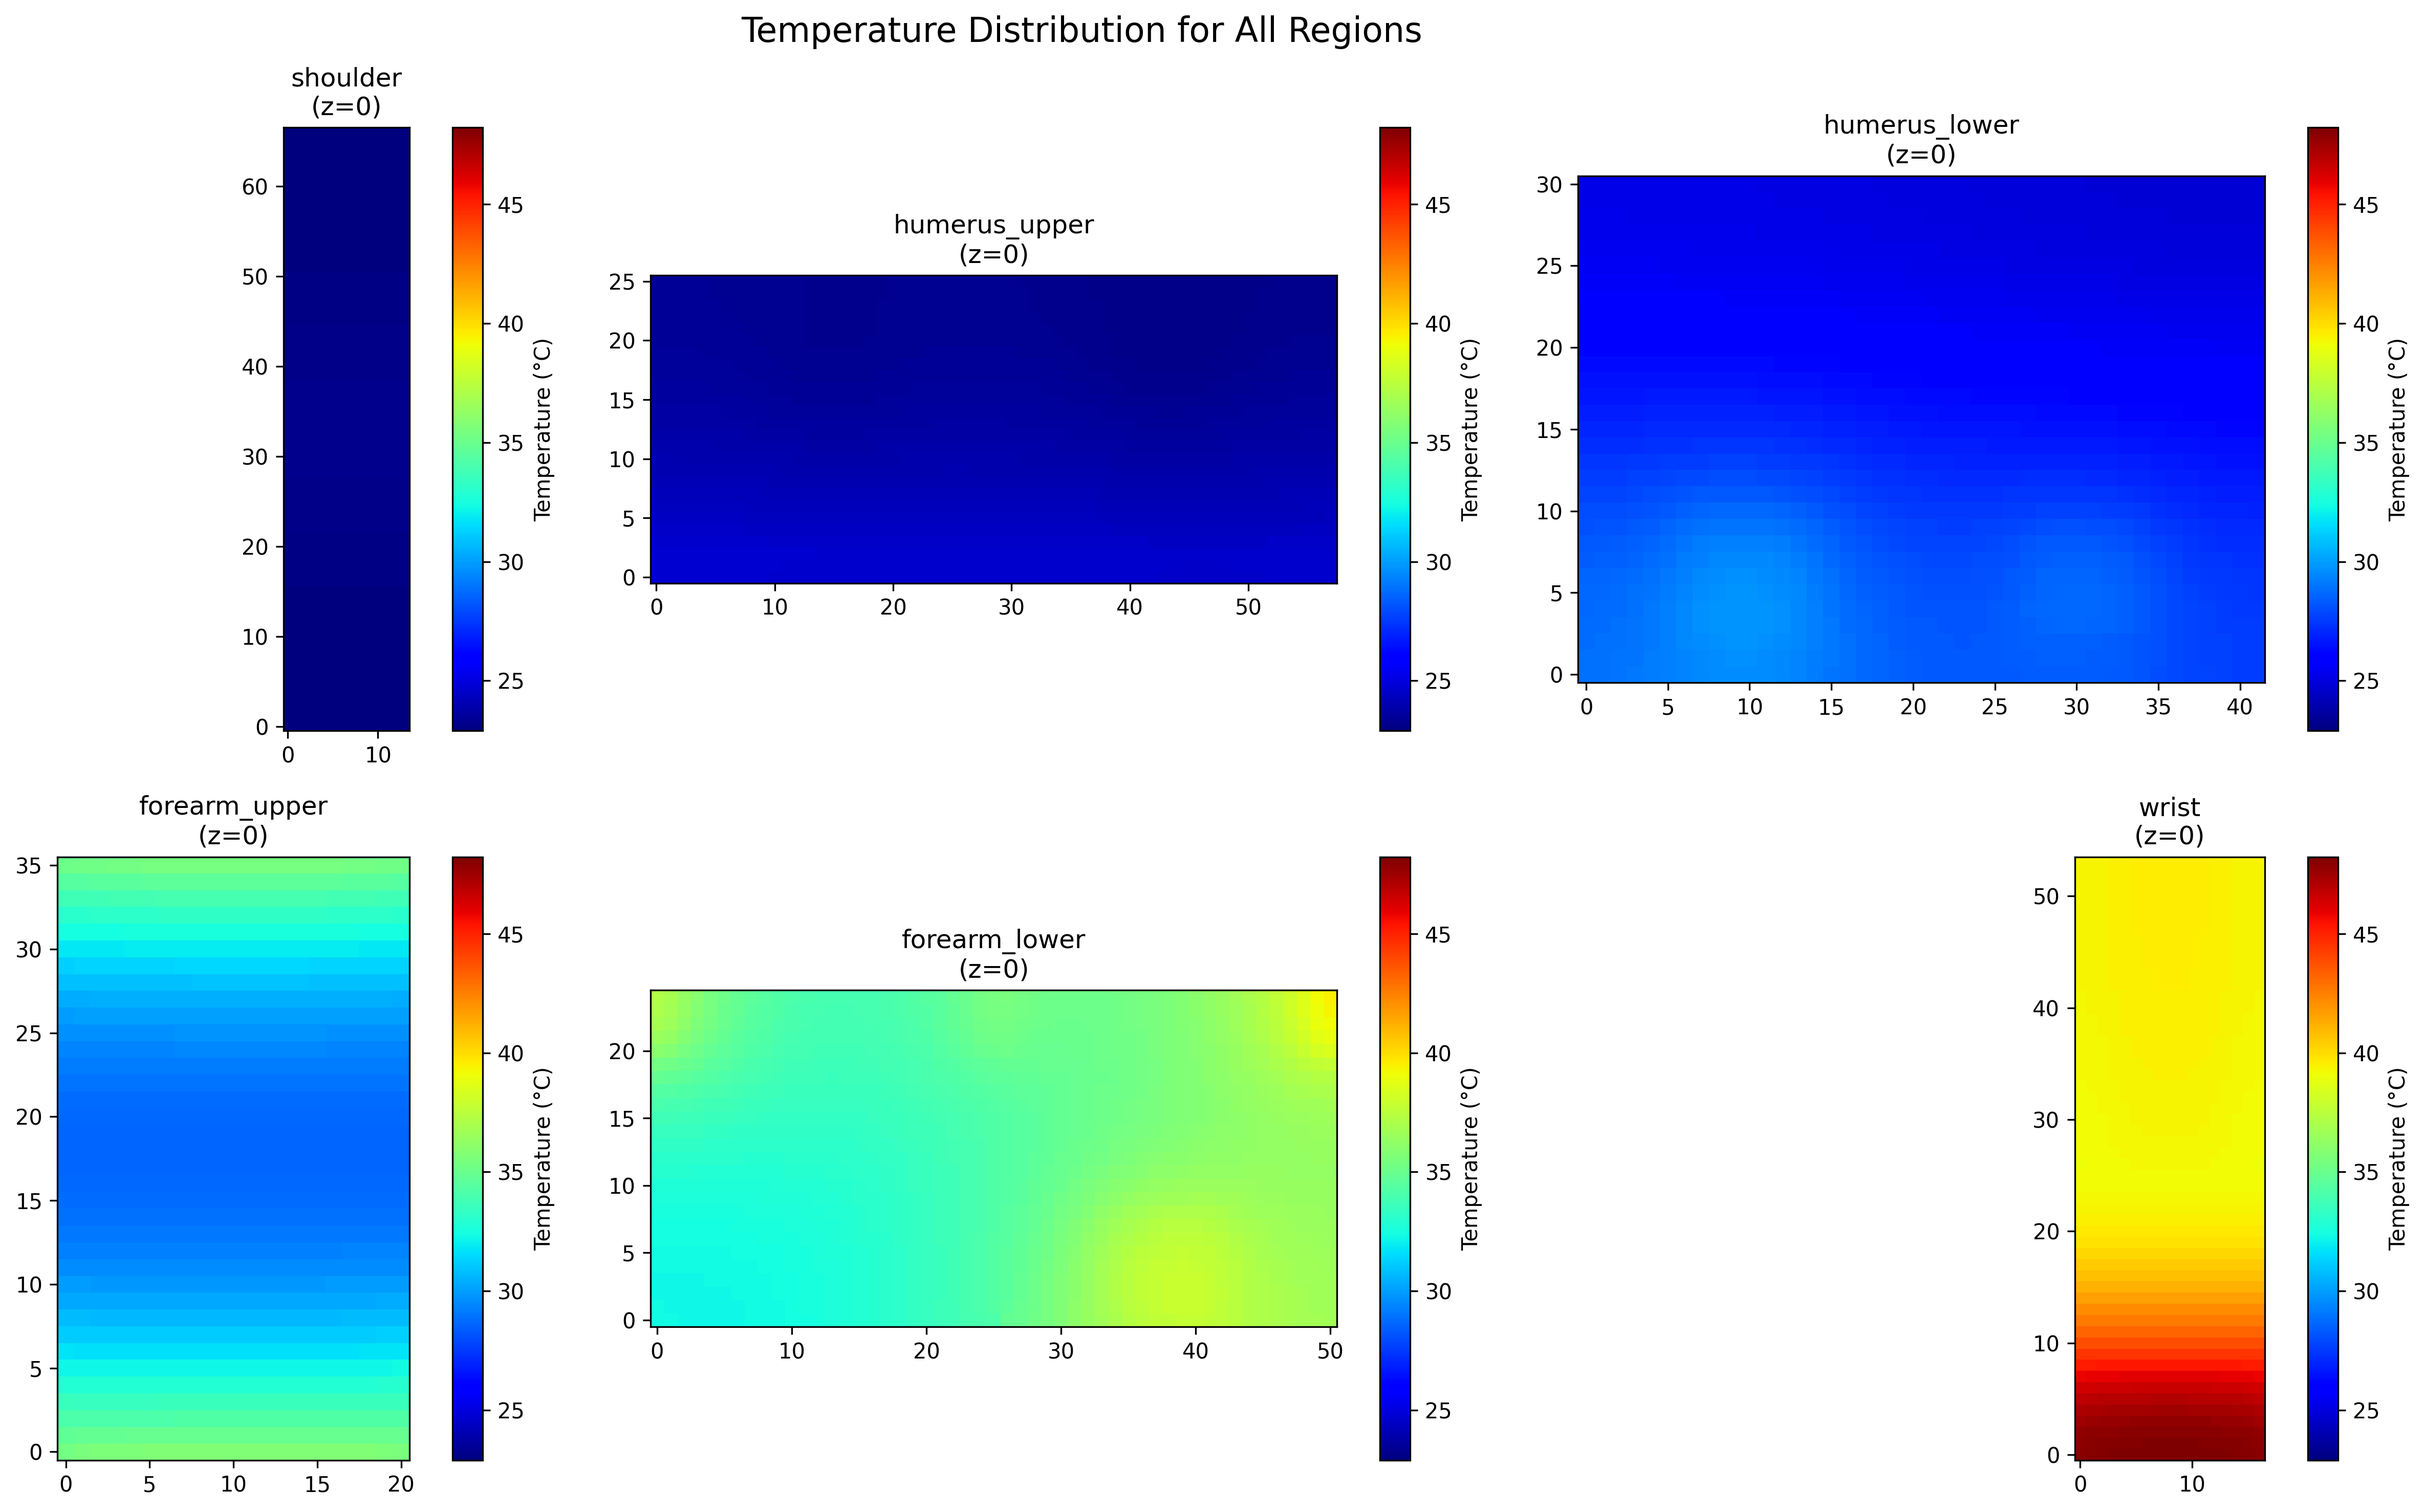
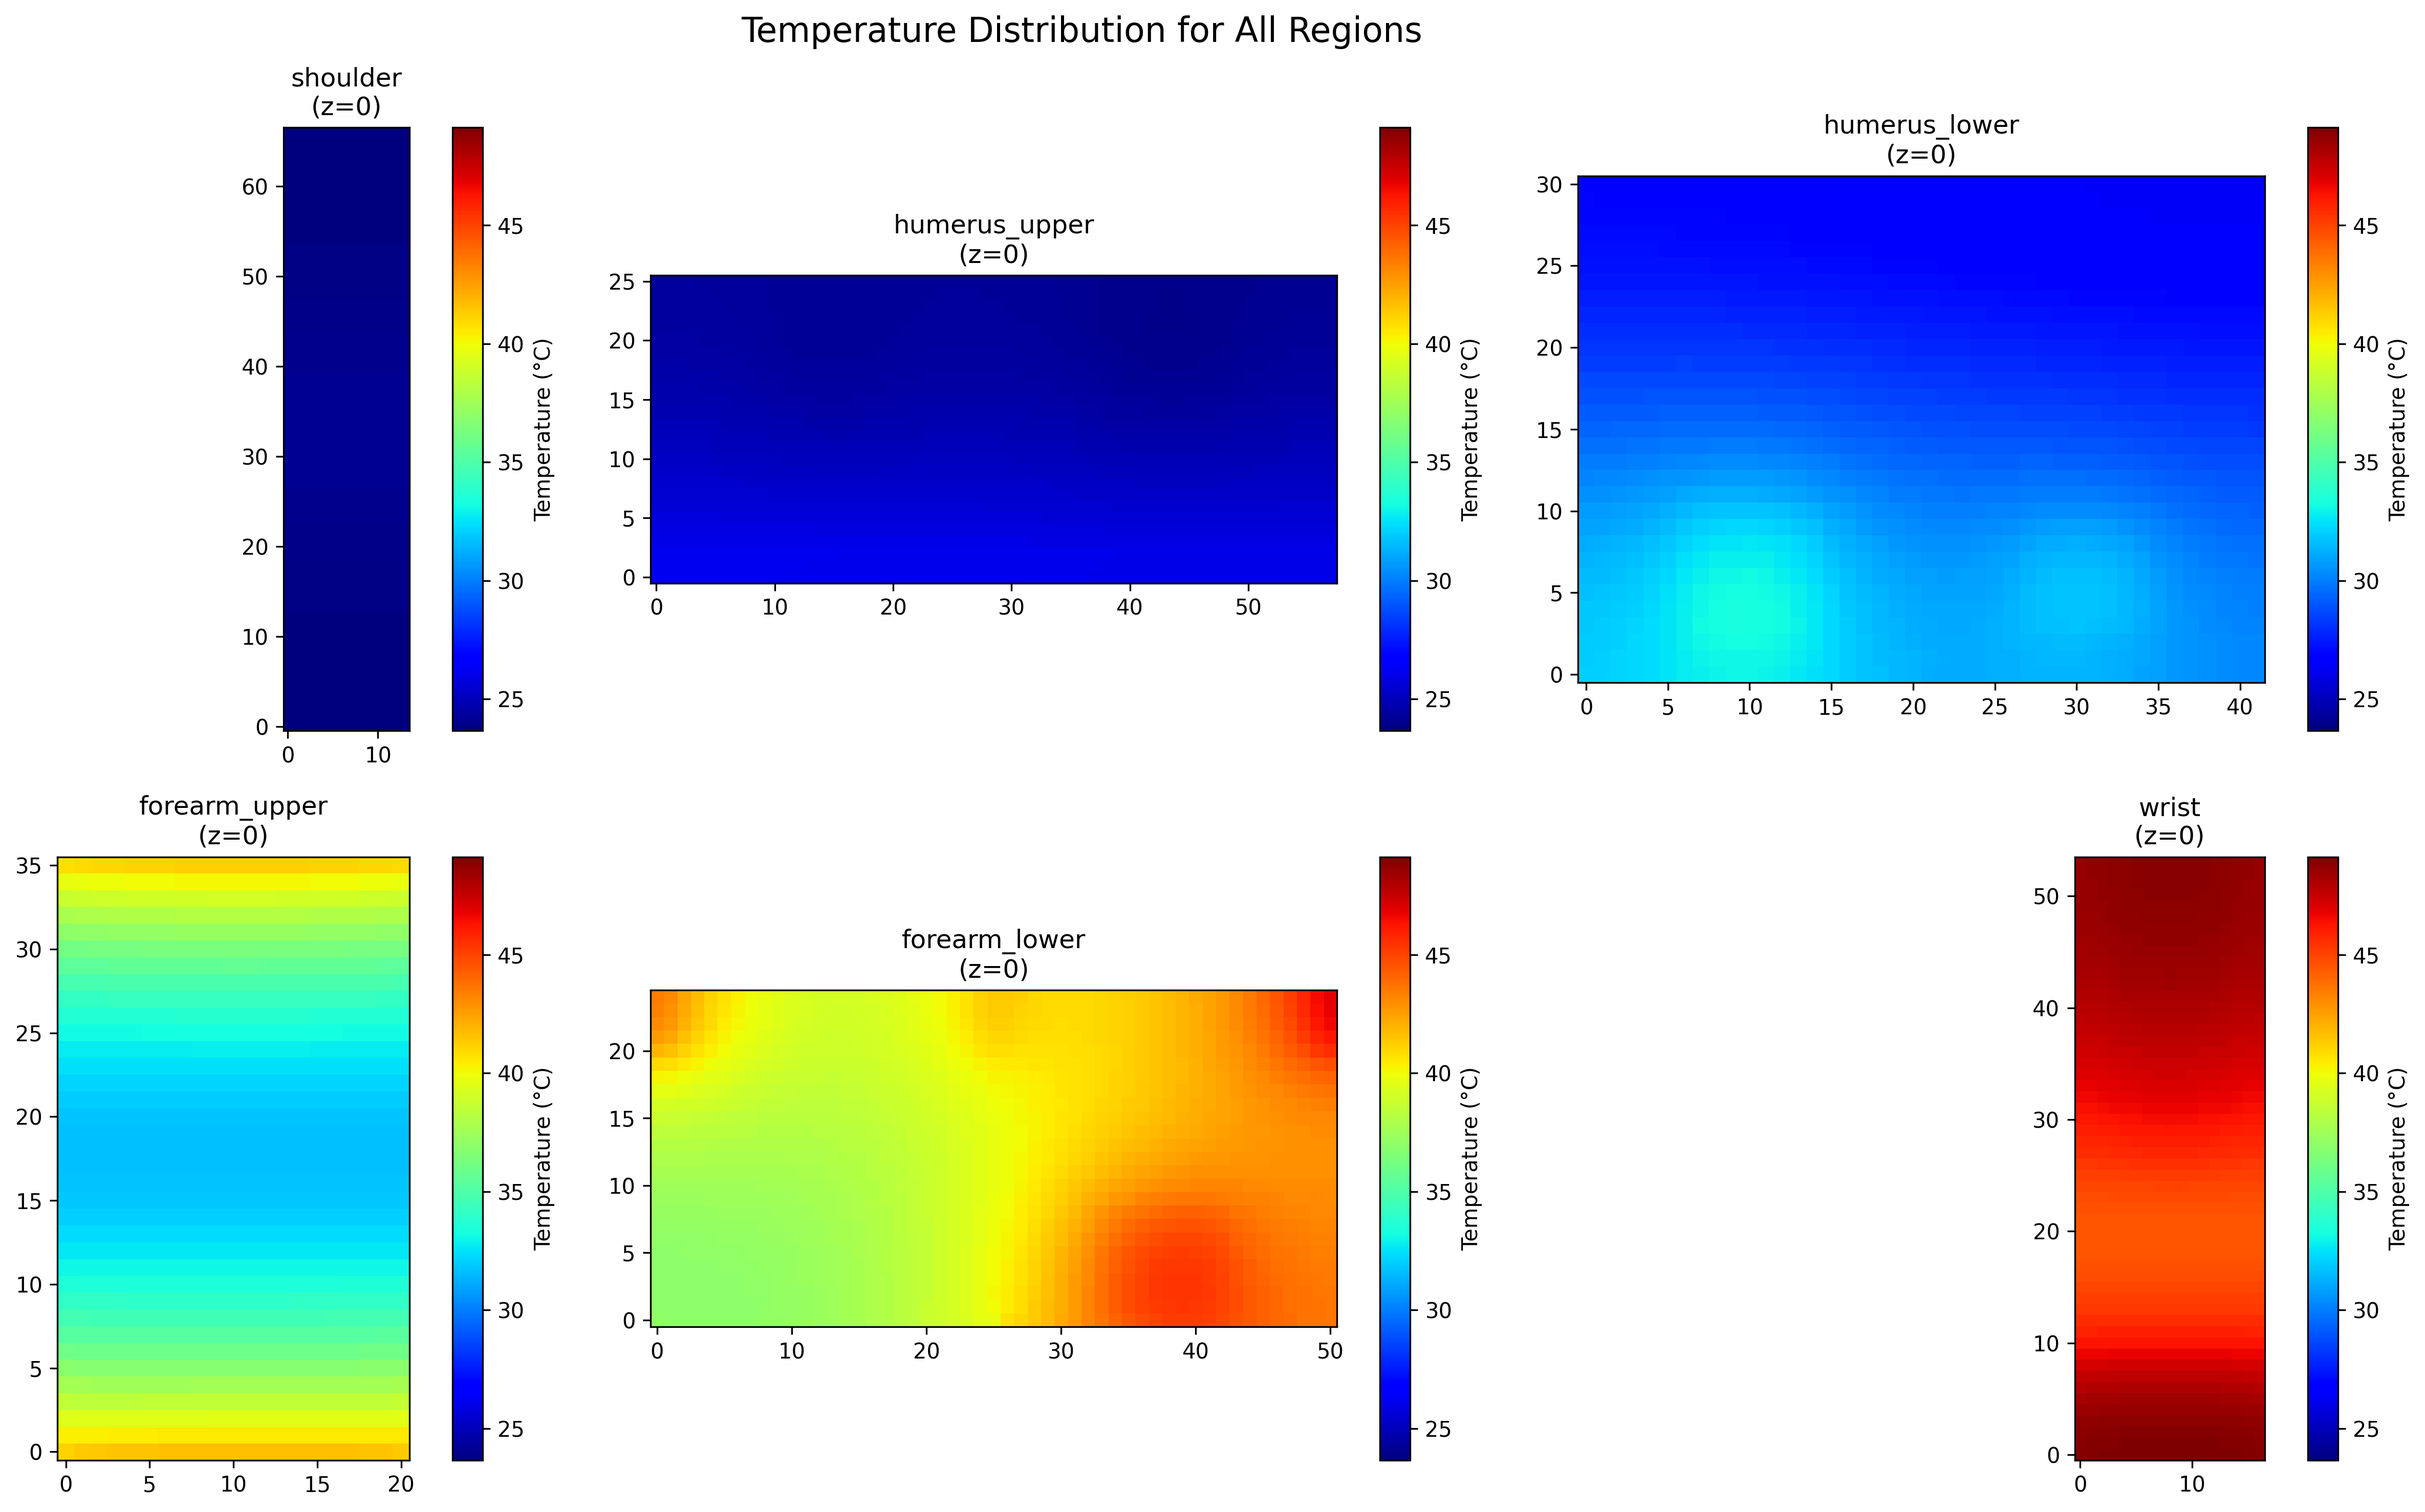
update parameters (htc and resistance) for different cases sim

diff --git a/arm_thermal_model_v3_SimpleHand/thermal_utils.py b/arm_thermal_model_v3_SimpleHand/thermal_utils.py
@@ -5,7 +5,8 @@ Utility functions for thermal model processing.
 import json
 import re
 import os
-from typing import Dict, Any
+from typing import Dict, Any, List
+import numpy as np
 
 def read_geo_file(file_path: str) -> Dict[str, Any]:
     """
@@ -594,6 +595,96 @@ def print_model_summary(geo_data, mesh_params, region_elements, element_mappings
     print(f"\nTotal Elements: {total_elements}")
     print(f"Total Mappings: {len(element_mappings)}")
     print("===============================\n")
+
+class ThermalInterface:
+    """
+    Class to handle thermal coupling between 2D mesh and 1D thermal resistance models.
+    This provides a standardized interface for connecting different thermal models.
+    """
+    def __init__(self, interface_id: str, mesh_region: str, resistance_model: str):
+        self.interface_id = interface_id
+        self.mesh_region = mesh_region
+        self.resistance_model = resistance_model
+        self.coupling_elements = []
+        self.thermal_resistance = {}
+        self.heat_flux = 0.0
+        
+    def add_coupling_element(self, element_idx: int, area: float, position: dict):
+        """Add a mesh element that couples to the thermal resistance model."""
+        self.coupling_elements.append({
+            'element_idx': element_idx,
+            'area': area,
+            'position': position
+        })
+        
+    def set_thermal_resistance(self, resistance_network: dict):
+        """Set the thermal resistance network for this interface."""
+        self.thermal_resistance = resistance_network
+        
+    def calculate_heat_flux(self, mesh_temperatures: np.ndarray, resistance_temperatures: dict) -> float:
+        """Calculate the heat flux through the interface."""
+        total_heat_flux = 0.0
+        for element in self.coupling_elements:
+            mesh_temp = mesh_temperatures[element['element_idx']]
+            # Calculate heat flux based on temperature difference and thermal resistance
+            # This is a simplified example - actual implementation would use the full resistance network
+            resistance_temp = resistance_temperatures.get('interface', mesh_temp)
+            delta_T = mesh_temp - resistance_temp
+            R_total = sum(self.thermal_resistance.values())
+            q = delta_T / R_total * element['area']
+            total_heat_flux += q
+        self.heat_flux = total_heat_flux
+        return total_heat_flux
+        
+    def validate_energy_conservation(self, mesh_heat_flux: float, resistance_heat_flux: float, tolerance: float = 1e-6) -> bool:
+        """Validate that energy is conserved at the interface."""
+        return abs(mesh_heat_flux + resistance_heat_flux) < tolerance
+
+def create_thermal_interface(geo_data: dict, mesh_params: dict, region_elements: dict) -> List[ThermalInterface]:
+    """
+    Create thermal interfaces between 2D mesh and 1D thermal resistance models.
+    
+    Args:
+        geo_data: Geometry data from the GEO.json file
+        mesh_params: Mesh parameters for all regions
+        region_elements: Dictionary mapping region IDs to lists of elements
+        
+    Returns:
+        List of ThermalInterface objects
+    """
+    interfaces = []
+    
+    # Process each region for potential interfaces
+    for region in geo_data.get("regions", []):
+        region_id = region["id"]
+        
+        # Look for boundary conditions that indicate thermal interfaces
+        for bc in region.get("boundary_conditions", []):
+            if bc["type"] == "ACTUATOR_CONNECTED":
+                # Create new interface
+                interface = ThermalInterface(
+                    interface_id=f"{region_id}_{bc.get('id', 'interface')}",
+                    mesh_region=region_id,
+                    resistance_model=bc.get("actuator_id", "unknown")
+                )
+                
+                # Add coupling elements
+                elements = region_elements[region_id]
+                for element in elements:
+                    if element.get("is_boundary", False):
+                        interface.add_coupling_element(
+                            element_idx=element["global_idx"],
+                            area=element.get("area", 0.0),
+                            position=element.get("position", {})
+                        )
+                
+                # Set thermal resistance network
+                if "thermal_resistance" in bc:
+                    interface.set_thermal_resistance(bc["thermal_resistance"])
+                
+                interfaces.append(interface)
+    
+    return interfaces
 
 if __name__ == "__main__":
     # Example usage

diff --git a/arm_thermal_model_v3_SimpleHand/arm_solver_utils.py b/arm_thermal_model_v3_SimpleHand/arm_solver_utils.py
@@ -838,19 +838,29 @@ def update_matrix_with_boundary_conditions(A: scipy.sparse.lil_matrix, b: np.nda
                     
             elif bc_type == "GEARBOX_HAND":
                 R1_tmp = 1.0+R_contact  # C/W
+                
+                # original design
                 R2_tmp = 1.9  # C/W
                 
                 # R3_tmp = 2.898 # NC
                 # R3_tmp = 2.898*0.65  # C/W forearm fan
+                
                 # R3_tmp = 2.898*0.7 # C/W, backhand fan
                 # R3_tmp = 2.898 + 1.5 # C/W, glove on
-                R3_tmp = 2.898 + 1.5 - (0.35)*2.898 # C/W, glove on, forearm fan
+                
                 
                 # R4_tmp = 12  # C/W, backhand fan
-                R4_tmp = 7.7 + 1.5  # C/W, glove on
                 
-                Q1 = 9       # W
-                Q2 = 16.11+8
+                # glove on, 50% wrist fan, pos back hand fan
+                # R3_tmp = 2.898 + 1.5 - (0.35)*2.898
+                # R4_tmp = 7.7 + 1.5 - (0.35)*2.898
+                
+                # glove on, 50% wrist fan, pos back hand fan, elbow installed
+                R3_tmp = 2.898 + 1.5 - (0.55)*2.898
+                R4_tmp = 7.7 + 1.5
+                
+                Q1 = 5.5       # W
+                Q2 = 24.56
                 region_data = info['region_data']
                 T_amb = region_data.get('ambient_temperature', 21)
                 N_element = len(elements)
@@ -986,7 +996,8 @@ def update_matrix_with_boundary_conditions(A: scipy.sparse.lil_matrix, b: np.nda
         T_inf = region_data.get('ambient_temperature', 21)  # °C
                 
         if region_data.get('id') == 'wrist' or region_data.get('id') == 'forearm_lower':
-            htc = 50
+            # htc = 50
+            htc = 40 # with elbow installed
                 
         # Process all surface, edge, and corner elements that don't have other BCs
         for element_type in ['surface', 'edge', 'corner']:

diff --git a/arm_thermal_model_v3_SimpleHand_FlippedYawOnly/arm_solver_utils.py b/arm_thermal_model_v3_SimpleHand_FlippedYawOnly/arm_solver_utils.py
@@ -750,11 +750,22 @@ def update_matrix_with_boundary_conditions(A: scipy.sparse.lil_matrix, b: np.nda
                     
             elif bc_type == "HOUSING_HAND":
                 R1_tmp = 1.0+R_contact  # C/W
+                
                 R2_tmp = 1.9  # C/W
+                
+                # heatpiped design
+                R2_tmp = 1.9/3
+                
+                # Only flipped Yaw
                 R3_tmp = 2.898*0.65  # C/W
                 R4_tmp = 7.7+5  # C/W
-                Q1 = 9       # W
-                Q2 = 16.11
+                
+                # Flipped with glove on, elbow installed, both fan blowing, hand fan pos
+                R3_tmp = 2.898 + 1.5 - 2.898*0.55  # C/W
+                R4_tmp = 7.7 + 5 + 1.5  # C/W
+                
+                Q1 = 5.5       # W
+                Q2 = 24.56-2.5
                 region_data = info['region_data']
                 T_amb = region_data.get('ambient_temperature', 21)
                 htc = region_data.get('heat_transfer_coefficient', 7)  # W/m²K (default if not specified)
@@ -876,7 +887,7 @@ def update_matrix_with_boundary_conditions(A: scipy.sparse.lil_matrix, b: np.nda
         T_inf = region_data.get('ambient_temperature', 21)  # °C
         
         if region_data.get('id') == 'wrist' or region_data.get('id') == 'forearm_lower':
-            htc = 50
+            htc = 40
                 
         # Process all surface, edge, and corner elements that don't have other BCs
         for element_type in ['surface', 'edge', 'corner']:
